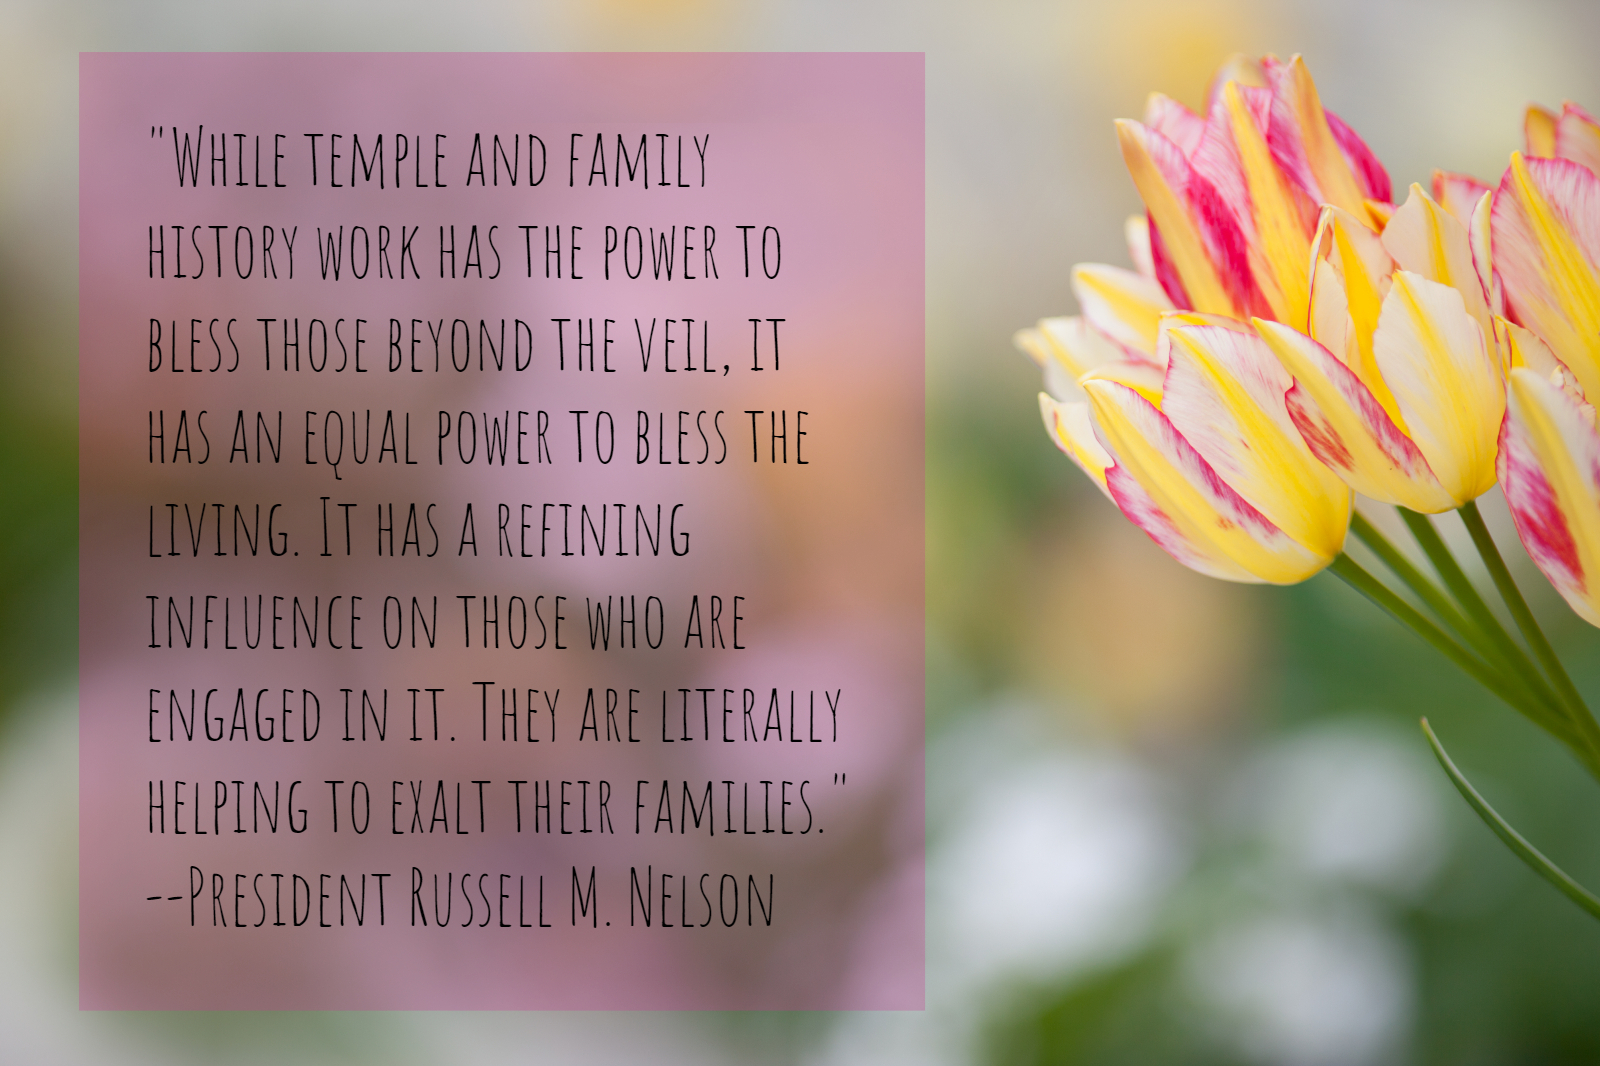
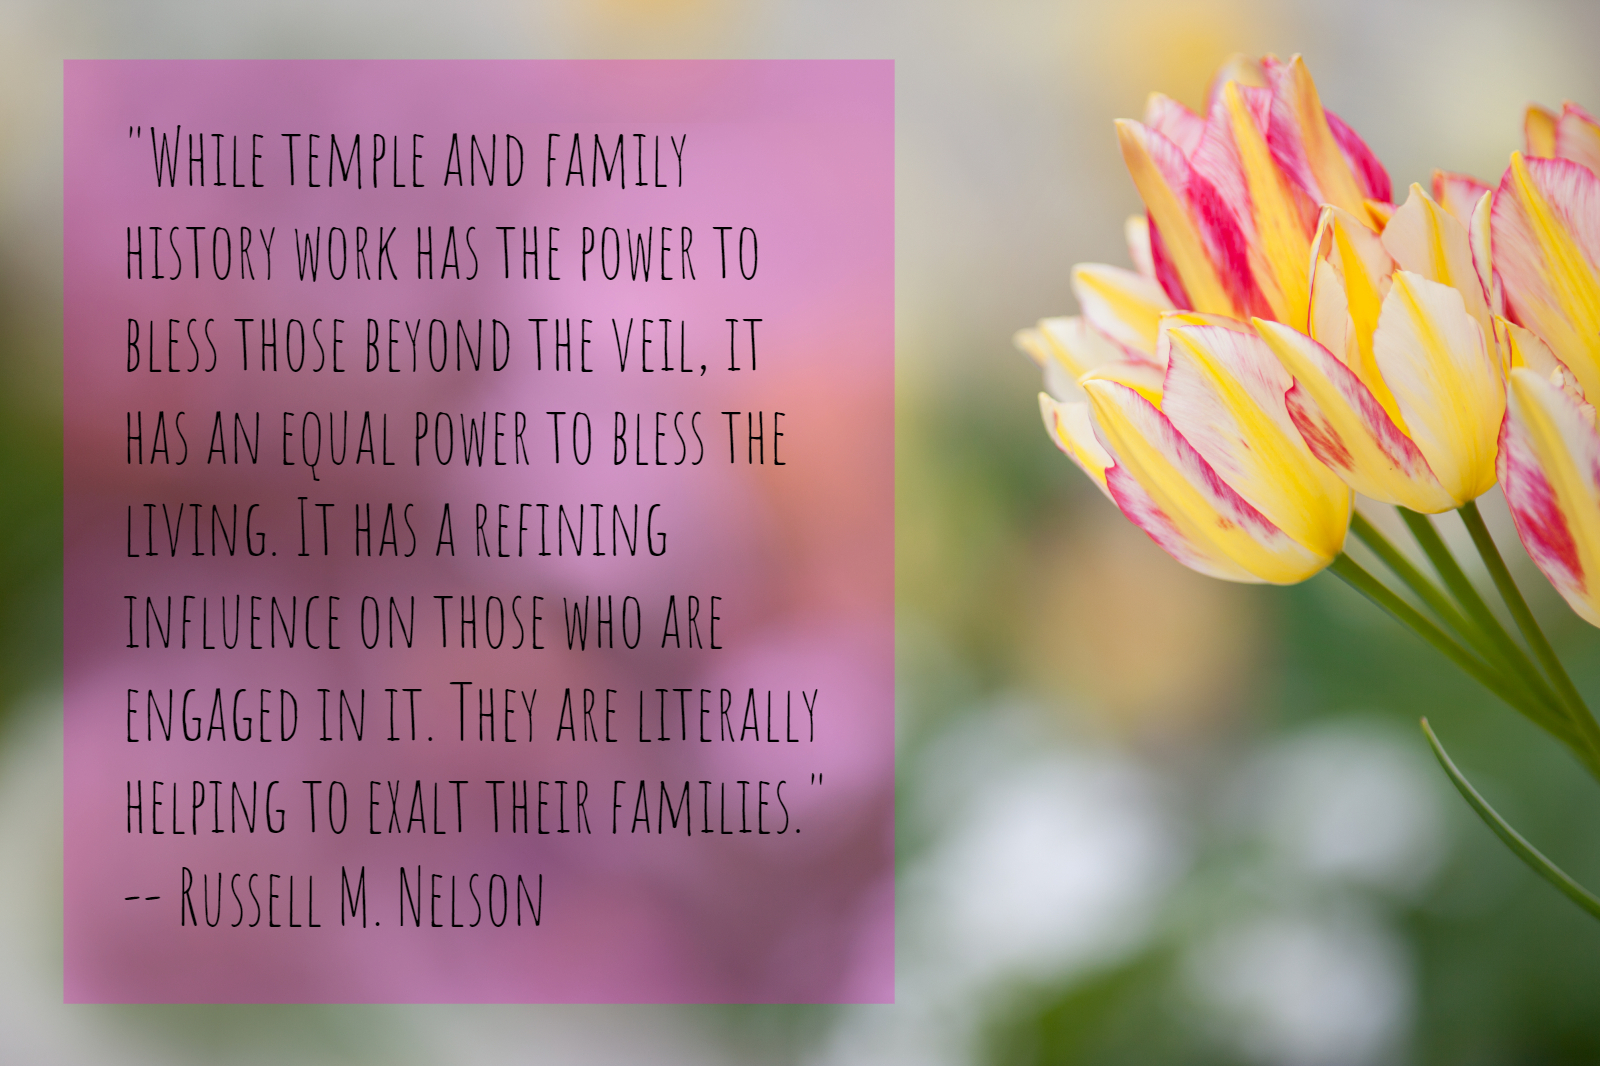
Moved the pdf generating logic to a separate file, added comments, and fixed typos in top pictures

Changed region(s): [[0.0312, 0.031, 0.5938, 0.9597], [0.0938, 0.1238, 0.4375, 0.1857], [0.2188, 0.9287, 0.4062, 0.9597]]

diff --git a/public/js/pdf-generator.js b/public/js/pdf-generator.js
@@ -1,0 +1,47 @@
+/**
+* helper function for GENERATE(). Retrieves a page from the calendar
+* based on the PAGE INDEX passed in. 
+**/
+function grabPage(pageIndex) {
+  return new Promise(function(resolve, reject) {
+    var newPage;
+    html2canvas(document.getElementsByClassName('page')[pageIndex], {
+      onrendered: function(canvas) {
+        newPage = canvas.toDataURL('image/jpeg', 1.0);
+        if (newPage == undefined) {
+          console.log("There was an error retrieving a calendar page");
+          reject();
+        } else {
+          resolve(newPage);
+        }
+      }
+    });
+  });
+}
+
+/**
+* generates a PDF file using jsPDF, and loads them asyncronously using javascript
+* promises. The final PDF is saved in the user's downloads.
+**/
+function generate() {
+  // creates a promise for each calendar page, so they can load asyncronously and the pages stay in the same order.
+  var calendarPagePromiseArray = [grabPage(0), grabPage(1), grabPage(2), grabPage(3), grabPage(4), grabPage(5), grabPage(6), grabPage(7), grabPage(8), grabPage(9), grabPage(10), grabPage(11), grabPage(12), grabPage(13), grabPage(14), grabPage(15), grabPage(16), grabPage(17), grabPage(18), grabPage(19), grabPage(20), grabPage(21), grabPage(22), grabPage(23)];
+  Promise.all(calendarPagePromiseArray).then(
+    //if successful
+    function(pageArray) {
+      var pdf = new jsPDF('landscape', 'mm', 'a4');
+      // console.log("PAGE HEIGHT: " + pdf.internal.pageSize.height);   210.00197555866663(px?)
+      for(var i = 0; i < pageArray.length; i++) {
+        pdf.addImage(pageArray[i], 'JPEG', 0, 0, 300, pdf.internal.pageSize.height);
+        if(i < pageArray.length - 1) {
+          pdf.addPage();
+        }
+      }
+      pdf.save("myFamilyCalendar.pdf");
+    },
+    // if not successful
+    function(errorArray) {
+      console.log("There was an error retrieveing your calendar");
+    }
+  ) // end of .then
+}

diff --git a/routes/calendar.js b/routes/calendar.js
@@ -16,6 +16,10 @@ router.get('/', function(req, res){
   res.redirect('/calendar/' + req.session.user.personId);
 });
 
+/**
+* Creates the basic calendar object and calculates the number of days in the month
+* and the offset of the first day of the month. The "date" array is filled in later. 
+**/
 function setUpCalendar() {
   calendar = [
     {'monthName': 'January',   'numDaysInMonth': 0, 'firstDayOfMonth': 0, dates :{}},
@@ -42,18 +46,24 @@ function setUpCalendar() {
   }
 }
 
+/**
+* Determines if the date has a day, month, and year. Without this, the default
+* value is used, and the calendar prints out wrong. If the date is not valid,
+* the event is not displayed in the calendar.
+**/
 function isValid(dateString) {
-  
   var splitDateString = dateString.split(" ");
   if(!splitDateString[0] || !splitDateString[1] || !splitDateString[2]) {
     return false;
   }
   return true;
 }
+
 /**
-Organizes the events by date and pushes them into the calendar, indexed by
-day inside the proper month.
-*/
+* Organizes the events by date and pushes them into the calendar, indexed by
+* day inside the proper month.
+* It also handles marriage events by preventing the event from being printed twice
+**/
 function addEventToCalendar(name, date, ascendancyNumber, gender, type) {
   var eventDate = new Date(date);
   var eventInfo = {

diff --git a/public/stylesheets/calendar.css b/public/stylesheets/calendar.css
@@ -3,15 +3,22 @@
   height: 100%;
 }
 
+.bottom-page {
+  background-size: 100%;
+}
+
 .month {
-  background-color: green;
   padding: 3px;
   border-style: solid;
   border-width: 1px;
+  margin-bottom: 100px;
+}
+
+.month-title {
+  text-align: center;
 }
 
 .week {
-  background-color: blue;
   display: flex;
   width: 100%;
 }
@@ -19,14 +26,14 @@
 .day {
   border-style: solid;
   border-width: 1px;
-  background-color: yellow;
+  background-color: white;
+  opacity: 0.9;
   padding: 3px;
   width: 100%;
   height: 110px;
 }
 
 .event {
-  background-color: white;
   padding: 3px;
   margin: 3px;
   font-size: 10px;
